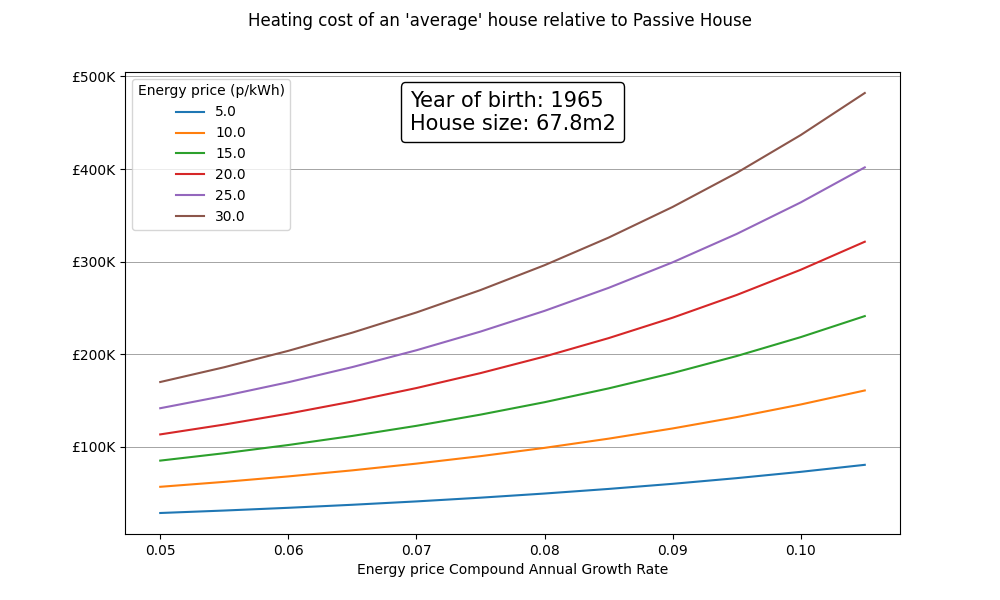
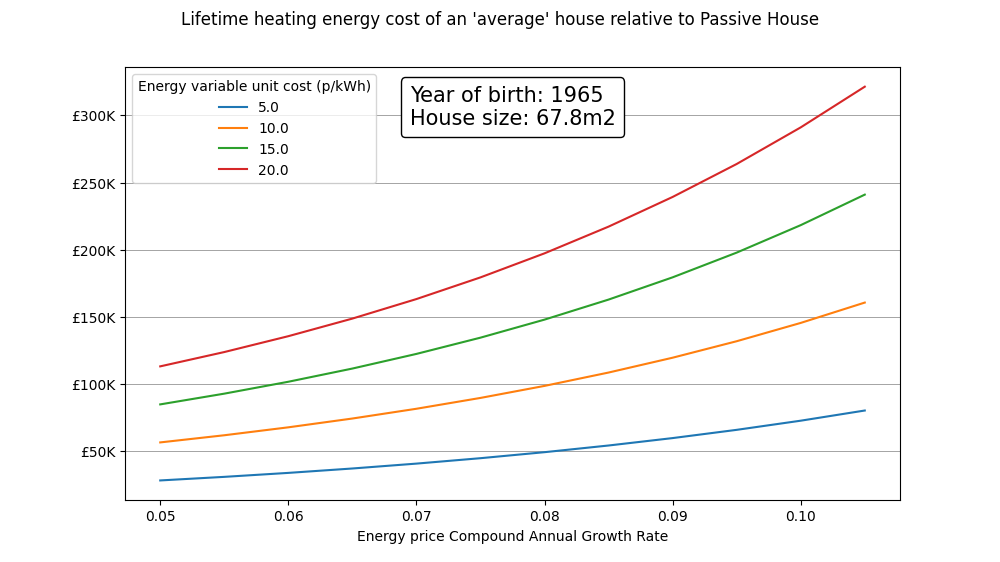
generate plots for different ages

diff --git a/pension_calculator/graph.py b/pension_calculator/graph.py
@@ -109,11 +109,14 @@ def compute_relative_energy_cost(
 
 def currency(x, pos):
     """Format y axis currency label as £xxK"""
-    return "£{:1.0f}K".format(x * 1e-3)
+    if x >= 1e6:
+        return "£{:1.1f}M".format(x * 1e-6)
+    else:
+        return "£{:1.0f}K".format(x * 1e-3)
 
 
 if __name__ == "__main__":
-    year_of_birth = 1965
+    year_of_birth = 1997
     house_size_m2 = 67.8
     result_df = compute_relative_energy_cost(year_of_birth, house_size_m2)
     delta_df = result_df["average"] - result_df["passive"]
@@ -121,13 +124,17 @@ if __name__ == "__main__":
     fig, ax = plt.subplots()
     ax.yaxis.set_major_formatter(currency)
 
-    fig.set_size_inches(10, 6)
-    fig.suptitle("Heating cost of an 'average' house relative to Passive House")
+    width_inches = 10
+    height_inches = width_inches * 9 / 16
+    fig.set_size_inches(width_inches, height_inches)
+    fig.suptitle(
+        "Lifetime heating energy cost of an 'average' house relative to Passive House"
+    )
 
     delta_df.plot(ax=ax)
 
     plt.legend(
-        title="Energy price (p/kWh)",
+        title="Energy variable unit cost (p/kWh)",
         labels=[round(col, 2) * 100 for col in delta_df.columns],
     )
     ax.set_xlabel("Energy price Compound Annual Growth Rate")
@@ -146,7 +153,7 @@ if __name__ == "__main__":
         linewidth=0.5,
     )
 
-    outfile = PLOT_DIR / "heating_cost_comparison.png"
+    outfile = PLOT_DIR / f"heating_cost_comparison_{year_of_birth}.png"
     plt.savefig(outfile)
 
     plt.show()

diff --git a/pension_calculator/make_config.py b/pension_calculator/make_config.py
@@ -19,7 +19,7 @@ if __name__ == "__main__":
     )
     my_config.add_section("energy_use").set(average=133, passive=15)
     my_config.add_section("sensitivities").set(
-        price_min=0.05, price_max=0.31, cagr_min=0.05, cagr_max=0.10
+        price_min=0.05, price_max=0.21, cagr_min=0.05, cagr_max=0.10
     )
     my_config.add_section("CAGR").set(
         gas=0.05, electricity=0.08,
